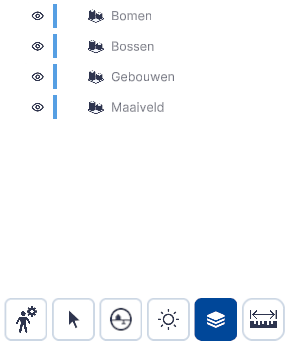
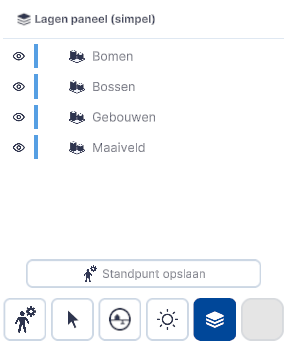
FPV Documentation up to date with new images and foldout menus

diff --git a/docs/docs/handleiding/first-person-viewer.md b/docs/docs/handleiding/first-person-viewer.md
@@ -1,8 +1,6 @@
 # First Person Viewer
 
 
-!!!tip "De First Person Viewer (FPV) is een beta functionaliteit van Netherlands3D."
-
 De First Person Viewer maakt het mogelijk voor gebruikers om zich op realistische ooghoogte door de 3D-wereld te bewegen. Zo kan je ervaren hoe een aangepaste omgeving te beleven is vanaf ooghoogte.
 
 
@@ -26,9 +24,6 @@ Je kunt de first person viewer verlaten door rechtsboven op de knop ‘verlaat f
 Als muisvergrendeling aanstaat, kun je de muis loslaten door éénmaal op **Backspace** te drukken.
 
 
-De first person viewer vergrendeld de muisaanwijzer vast in de first person viewer. Deze kun je weer ontgrendelen door één keer op **Backspace** te drukken.
-Het verlaten van de first person viewer kan op meerdere manieren;
-
 - Houd de **Backspace**-toets 2 seconden ingedrukt. Linksboven in het scherm verschijnt een voortgangsbalk zien die aangeeft hoe lang je backspace nog moet indrukken voordat je de first person viewer verlaat.
 - Druk één keer op Backspace om de muis vrij te geven, en klik vervolgens rechtsboven op de 'verlaten' knop om de First Person Viewer te verlaten. 
 
@@ -48,75 +43,80 @@ Om de muis los te ontgrendelen druk je eenmaal op **Backspace**.
 ## Besturing
 Er zijn verschillende manieren van bewegen in de first person viewer. Je kunt **lopen**, **vliegen**, **fietsen** en **autorijden**, in aparte bewegingsmodi.
 
-Bewegen kan op twee manieren;
+Besturing kan op drie manieren, kies de methode die voor jou het prettigst werkt.
 
-- met de **pijltjestoetsen**, *óf* 
-- met de knoppen **'W, A, S en D'**.
 
-Hieronder volgt uitleg per bedieningsmethode. Kies de methode die voor jou het prettigst werkt.
+??? Pijltjestoetsen 
 
-<br>
+    Met de pijltjestoetsen kun je rondbewegen in de First Person Viewer. Door te klikken en je muis te bewegen, verander je je kijkrichting. De pijltjestoetsen bewegen je vervolgens in die richting.
+    Op dit onderstaande kaartje is zichtbaar welke knoppen waarvoor dienen:
 
-#### Pijltjestoetsen
-Met de pijltjestoetsen kun je rondbewegen in de First Person Viewer. Door te klikken en je muis te bewegen, verander je je kijkrichting. De pijltjestoetsen bewegen je vervolgens in die richting.
-Op dit onderstaande kaartje is zichtbaar welke knoppen waarvoor dienen:
+    ![Building Blocks](../handleiding/imgs/FPV_buttonmappingPijlen.png){ width="1000px" }  
 
-![Building Blocks](../handleiding/imgs/FPV_buttonmappingPijlen.png){ width="1000px" }  
+    **Bewegingsmodi**:
 
-**Bewegingsmodi**:
+    - *Versnellen*: houdt **Shift** ingedrukt.
 
-- *Versnellen*: houdt **Shift** ingedrukt.
+    Loopmodus:
 
-Loopmodus:
+    - *Springen*: druk op **Spatiebalk**.
 
-- *Springen*: druk op **Spatiebalk**.
+    Vliegmodus:
 
-Vliegmodus:
+    - *Omhoog vliegen*: **Spatiebalk** *of* **PageUp**.
+    - *Omlaag vliegen*: **PageDown**.
 
-- *Omhoog vliegen*: **Spatiebalk** *of* **PageUp**.
-- *Omlaag vliegen*: **PageDown**.
+    Automodus en fietsmodus:
 
-Automodus en fietsmodus:
+    - *Sturen*: Gebruik **pijltjes naar links en rechts** om het voertuig te sturen. In deze modi kun je vrij rondkijken zonder de voertuigen te draaien met de camera.
+    - *Handrem*: **Spatie**
 
-- *Sturen*: Gebruik **pijltjes naar links en rechts** om het voertuig te sturen. In deze modi kun je vrij rondkijken zonder de voertuigen te draaien met de camera.
-- *Handrem*: **Spatie**
+??? WASD
 
-<br>
+    Je kunt ook kiezen om rond te bewegen door de knoppen 'W, A, S en D' te gebruiken. 
 
-#### W A S D
-Je kunt ook kiezen om rond te bewegen door de knoppen 'W, A, S en D' te gebruiken. 
+    - Vooruit: **W**.
+    - Achteruit: **S**.
+    - Links: **A**.
+    - Rechts: **D**.
 
-- Vooruit: **W**.
-- Achteruit: **S**.
-- Links: **A**.
-- Rechts: **D**.
+    Deze knoppen zijn bepaald met respect tot hun positie op het toetsenbord, net als de pijltjestoetsen. 
+    Door te klikken en je muis te bewegen, verander je je kijkrichting. De knoppen 'W, A, S, en D' zullen jou bewegen in de gekozen kijkrichting.
 
-Deze knoppen zijn bepaald met respect tot hun positie op het toetsenbord, net als de pijltjestoetsen. 
-Door te klikken en je muis te bewegen, verander je je kijkrichting. De knoppen 'W, A, S, en D' zullen jou bewegen in de gekozen kijkrichting.
+    Onderstaand kaartje toont de knoppenindeling:
 
-Onderstaand kaartje toont de knoppenindeling:
+    ![Building Blocks](../handleiding/imgs/FPV_buttonmappingWASD.png){ width="1000px" }  
 
-![Building Blocks](../handleiding/imgs/FPV_buttonmappingWASD.png){ width="1000px" }  
+    **Bewegingsmodi**
 
-**Bewegingsmodi**
+    - *Versnellen*: houdt **Shift** ingedrukt.
 
-- *Versnellen*: houdt **Shift** ingedrukt.
+    Loopmodus:
 
-Loopmodus:
+    - *Springen*: druk op **Spatiebalk**.
 
-- *Springen*: druk op **Spatiebalk**.
+    Vliegmodus:
 
-Vliegmodus:
+    - *Omhoog vliegen*: **Spatiebalk** *of* **Q**.
+    - *Omlaag vliegen*: **E**.
 
-- *Omhoog vliegen*: **Spatiebalk** *of* **Q**.
-- *Omlaag vliegen*: **E**.
+    Automodus en fietsmodus:
 
-Automodus en fietsmodus:
+    - *Sturen*: Gebruik **"A" en "D"** om het voertuig te sturen. In deze modi kun je vrij rondkijken zonder de voertuigen te draaien met de camera.
+    - *Handrem*: **Spatie**
 
-- *Sturen*: Gebruik **"A" en "D"** om het voertuig te sturen. In deze modi kun je vrij rondkijken zonder de voertuigen te draaien met de camera.
-- *Handrem*: **Spatie**
+??? Controller
 
-<br>
+    Met een game-controller kun je de FPV makkelijk besturen met exacte controle. Op dit onderstaande kaartje is zichtbaar welke knoppen waarvoor dienen:
+
+    ![Building Blocks](../handleiding/imgs/fpv_controllermapping.png){ width="1000px" }  
+
+    - *Bewegen*: **Linker stick**
+    - *Camera draaien*: **Rechter stick**
+    - Springen: **Knop-Zuid**
+    - Omhoog vliegen: **Knop-Zuid**, **R2** (ligt aan soort controller.)
+    - Omlaag vliegen: **L2**
+    - Switch movement Modus: **Left & Right**
 
 ### Algemene besturing:
 Wisselen tussen bewegingsmodi: **Tab** of **Enter**.
@@ -130,9 +130,10 @@ De camera te draaien zonder de muis:
 
 Handige sneltoetsen:
 
-- *Screenshot*: **C**.
-- *"Snap" naar het hoogste niveau*: **R**.
-- *Verberg alle UI (User Interfaces): **H**. Druk nogmaals H om de UI weer te tonen*.
+- *Schermafbeelding*: **C** en **Option/Start**
+- *"Snap" naar het hoogste niveau*: **R** en **Controller-Up**.
+- *Presentatiemodus: **H** en **Controller-Down**.
+
 
 ---
 
@@ -156,26 +157,37 @@ In het instellingenpaneel kun je de instellingen van de huidige modus aanpassen.
 
 De first person viewer heeft enkele functionaliteiten die in de beta versie beschikbaar zijn voor gebruik:
 
-- Ondergronds kijken:
+Ondergronds kijken:
+
 Bij het activeren van deze functie verschijnt een cirkel op het grondvlak, waarmee je ondergronds kunt kijken. In de interface die opent, kun je de grootte van de circel, en de lagen die gebruikt worden aanpassen. 
 
 ![Building Blocks](../handleiding/imgs/fpv_ondergrond.png){ width="800px" }  
 
 
-- Gebouwen informatie:
+Gebouwen informatie:
+
 Klik met de muis op het betreffende gebouw. Als u *muisvergrendeling* gebruikt, verschijnt er een cursor in het midden van uw scherm. Richt deze cursor  op het gewenste gebouw en klik. 
 In de interface verschijnt gebouwinformatie, uit de Basisadministratie Adressen en Gebouwen (BAG). *Let op, houd voor deze functionaliteit uw muis stil wanneer u klikt, bewegende selectie wordt meestal niet gedetecteerd.*
 
 ![Building Blocks](../handleiding/video/fpv_gebouw_selecteren.gif){ width="800px" }  
 
-- Zonnestand simuleren: 
+Zonnestand simuleren: 
 Hiermee kan je de Zonnestand simuleren door tijd en datum aan te passen, of de zon in de slider op te pakken en te bewegen.
 
 ![Building Blocks](../handleiding/imgs/fpv_schaduwen.png){ width="800px" }  
 
-- Lagenpaneel (simpel): In dit paneel kun je lagen aan en uit zetten. Dit paneel is ontworpen om situaties te vergelijken, aanpassingen kunnen alleen buiten de first person viewer gemaakt worden. 
+Lagenpaneel (simpel): In dit paneel kun je lagen aan en uit zetten. Dit paneel is ontworpen om situaties te vergelijken, aanpassingen kunnen alleen buiten de first person viewer gemaakt worden. 
+Je kunt ook een first-person-positie opslaan door de knop onderaan de interface te klikken. Door dubbel te klikken op de laag, kun je de positie weer innemen, met alle gegevens van beweging opgeslagen.
 
 ![Building Blocks](../handleiding/imgs/fpv_lagenpaneel.png){ width="400px" }  
+
+
+Meet-tool: Meet afstanden snel op. 
+
+Open het paneel. Klik in de wereld om een meetpunt aan te maken. Klik nogmaals elders om een tweede punt aan te maken. Hiertussen zal automatisch een lijn komen met daarbij de afstand tussen de twee punten. Je kunt meerdere punten maken, waar elk opvolgende punt een nieuwe lijn maakt. Klik op het kruisje in een meting in de interface om een lijn te verwijderen. Let op: deze afmetingen zijn benaderingen, de afstanden zijn niet exact. 
+
+![Building Blocks](../handleiding/imgs/fpv_meettool.png){ width="400px" }  
+
 
 - Noordpijl. Klik om camera naar het noorden te draaien.
 
